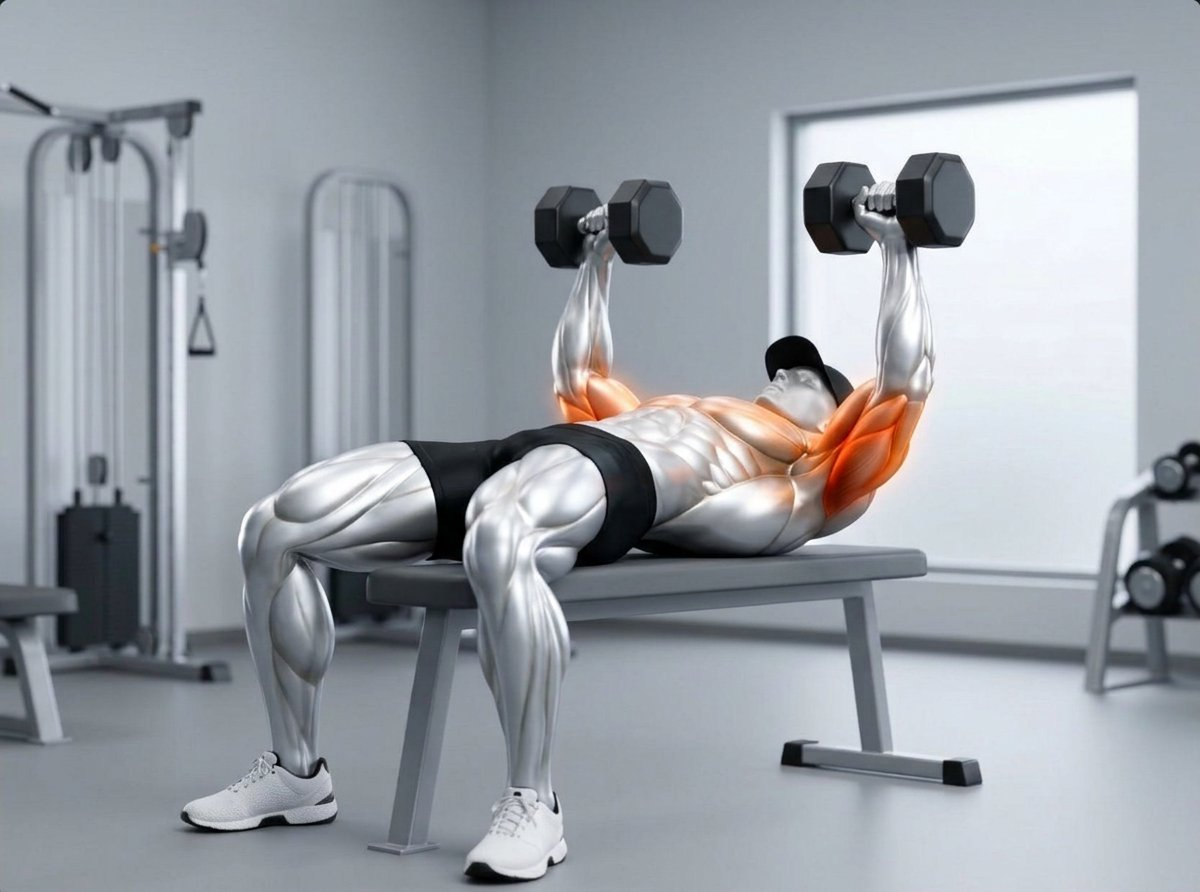
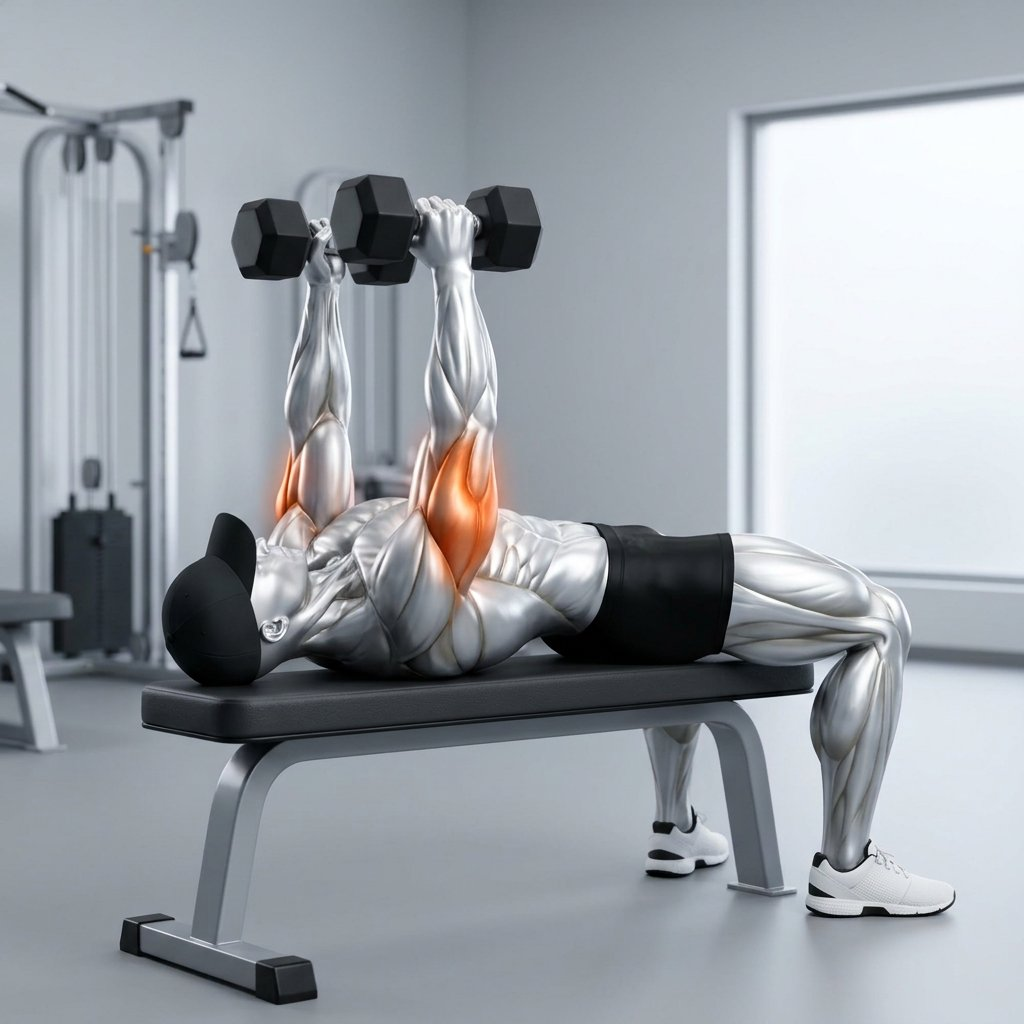
docs: corriger la prise neutre du triceps 03

diff --git a/yanis-fitness-evolution/docs/videos-3d/13-TRICEPS-02-05-PRODUCTION.md b/yanis-fitness-evolution/docs/videos-3d/13-TRICEPS-02-05-PRODUCTION.md
@@ -12,6 +12,11 @@ Révision ciblée du 25/10/2026 : après un essai du logiciel qui transformait l
 d'extension des coudes et une trajectoire vers le front explicites. Les photos
 et les prompts #02, #03 et #04 ne sont pas modifiés.
 
+Seconde révision ciblée, après contrôle visuel par Yanis : la photo et le zoom
+du #03 ont été remplacés pour rendre la **prise neutre** visible, et son prompt
+verrouille désormais les paumes face à face ainsi que l'orientation initiale
+des haltères dans l'axe tête–pieds du banc. Les #02, #04 et #05 sont inchangés.
+
 L'athlète reste celui de
 [`reference-personnage-verrouille.jpg`](./reference-personnage-verrouille.jpg) :
 homme massif chrome argenté, casquette noire mate, short noir, chaussures
@@ -102,12 +107,17 @@ haltères séparés**, bras presque tendus au-dessus de la ligne des épaules.
   l'arrière pour transformer le geste en développé ou en pullover.
 - **Coudes** : seuls les coudes fléchissent et s'étendent, ensemble et de
   façon symétrique. Ils restent à largeur stable, sans s'écarter fortement.
-- **Avant-bras et poignets** : **prise neutre fixe**, paumes face à face,
-  haltères parallèles et poignets droits. Aucune rotation en pronation ou
-  supination pendant le trajet.
-- **Mains et charges** : exactement un haltère par main. En bas, les charges
-  passent **de part et d'autre de la tête**, vers les tempes ou les oreilles,
-  sans toucher le visage, la tête ou le banc.
+- **Avant-bras et poignets** : **prise neutre fixe**, paumes face à face et
+  poignets droits. En position haute, chaque poignée d'haltère est parallèle
+  au **grand axe tête–pieds du banc**, avec un disque vers la tête et l'autre
+  vers les pieds ; les haltères ne sont pas transversaux aux épaules. Cette
+  orientation permet de reconnaître la prise neutre sur la photo. Aucune
+  rotation en pronation ou supination pendant le trajet.
+- **Mains et charges** : exactement un haltère par main. Les paumes restent
+  face à face **à chaque instant**, y compris au bas et à la remontée ; elles
+  ne se tournent jamais vers les pieds ou le sol. En bas, les charges passent
+  **de part et d'autre de la tête**, vers les tempes ou les oreilles, sans
+  toucher le visage, la tête ou le banc et sans se diriger vers la poitrine.
 
 1. **Descente — 3 s** : fléchir seulement les coudes et abaisser les deux
    haltères simultanément le long de la tête jusqu'à une flexion confortable,
@@ -120,7 +130,7 @@ haltères séparés**, bras presque tendus au-dessus de la ligne des épaules.
 ### Prompt Arena Video / PixVerse
 
 ```text
-Animate the EXACT same massive silver-chrome athletic man from the supplied image, preserving his matte black baseball cap, black shorts, white sneakers, grey gym and stable red-orange working-triceps glow. START at the exact HIGH position in the image: lying face-up lengthwise on a HORIZONTAL FLAT BENCH with head, shoulder blades, back and hips supported and feet planted; exactly TWO separate matching black HEX dumbbells, ONE in EACH hand, elbows nearly extended above the shoulder line, upper arms fixed approximately perpendicular to the floor, FIXED NEUTRAL grips with palms facing each other, dumbbells parallel and wrists straight. PHASE 1 (3 seconds): bend ONLY both elbows and lower BOTH dumbbells simultaneously along opposite sides of the head toward temple/ear level, to a comfortable elbow bend near 90 degrees; the dumbbells must pass BESIDE the head without touching the face, cap, head or bench. Keep both upper arms and shoulders stationary. PHASE 2 (1 second): extend ONLY both elbows and raise the same two dumbbells together along the same arcs back to the exact high reference position, without clashing them together. LOCKED throughout: neutral forearm orientation with palms inward, straight wrists, upper-arm position, head and back against the bench, hips, feet and camera. The dumbbells follow the natural elbow arcs with no independent wrist rotation. Static elevated side-front three-quarter camera, identical background and framing, natural continuous movement. Show EXACTLY ONE HIGH-LOW-HIGH repetition lasting about 4 seconds: the FIRST visible movement is DOWNWARD and the FINAL frame returns to the supplied HIGH image, with no added pause and no second rep. Preserve the SAME two separate hex dumbbells in every frame. AVOID: one shared dumbbell, two hands on one weight, barbell or EZ bar, cable, bench press, pullover, alternating arms, neutral grip turning into pronation or supination, upper arms drifting, elbows flaring, dumbbells hitting the head, incline or decline bench, standing posture, morphing equipment, extra fingers or limbs, camera movement, flickering glow, text, logo, watermark.
+Animate the EXACT same massive silver-chrome athletic man from the supplied image, preserving his matte black baseball cap, black shorts, white sneakers, grey gym and stable red-orange working-triceps glow. The action is a LYING TWO-DUMBBELL TRICEPS EXTENSION WITH A FIXED NEUTRAL HAMMER GRIP, driven exclusively by TWO ELBOW HINGES. START at the exact HIGH position in the image: lying face-up lengthwise on a HORIZONTAL FLAT BENCH with head, shoulder blades, back and hips supported and feet planted; exactly TWO separate matching black HEX dumbbells, ONE in EACH hand, elbows nearly extended above the shoulders and upper arms fixed approximately perpendicular to the floor. CRITICAL NEUTRAL-GRIP GEOMETRY: the PALMS FACE EACH OTHER across the body centreline, never the feet or the floor; wrists are straight; at the start EACH dumbbell handle is PARALLEL TO THE LONG HEAD-TO-FOOT AXIS OF THE BENCH, with ONE plate toward the HEAD and the OTHER toward the FEET. The two dumbbells are parallel to one another, NOT transverse across the shoulder line. THIS NEUTRAL GRIP IS AN INVARIANT FOR EVERY FRAME, not merely a starting detail: the palms keep facing each other at the bottom and throughout the return, with NO pronation, NO supination and NO axial twisting of either wrist or dumbbell. PHASE 1 (3 seconds): bend ONLY both elbows and lower BOTH dumbbells simultaneously along opposite sides of the head toward temple/ear level, to a comfortable elbow bend near 90 degrees. The weights travel BESIDE THE HEAD, NEVER toward the chest, sternum or stomach, without touching the face, cap, head or bench. Keep both upper arms and shoulders stationary. PHASE 2 (1 second): extend ONLY both elbows and LIFT the same two dumbbells together along the same arcs back to the exact high neutral-grip reference position, without clashing them together. LOCKED throughout: palms facing each other, neutral wrists, hand positions on the handles, upper-arm positions, head and back against the bench, hips, feet and camera. Both dumbbells preserve the same neutral orientation relative to their hands and remain parallel to each other; they follow the natural elbow arcs with no independent rotation. Static elevated side three-quarter camera, identical background and framing. Show EXACTLY ONE sequence lasting about 4 seconds: HIGH NEUTRAL GRIP -> BESIDE THE EARS WITH THE SAME NEUTRAL GRIP -> HIGH NEUTRAL GRIP. The descent lasts 3 seconds, the return lasts 1 second, and there is no added pause or second repetition. AVOID: palms turning toward the feet or floor, pronated or supinated grip, dumbbell handles turning across the shoulders at the start, any weight path toward the chest, one shared dumbbell, barbell or EZ bar, cable, alternating arms, upper-arm drift, elbows dropping beside the ribs, dumbbells hitting the head, incline bench, standing posture, morphing equipment, extra fingers or limbs, camera movement, flickering glow, text, logo, watermark.
 ```
 
 ---
@@ -211,11 +221,13 @@ Animate the EXACT same massive silver-chrome athletic man from the supplied imag
 2. Contrôler le départ, le bas, la remontée et la dernière image de chaque MP4,
    ainsi que les mains en zoom.
 3. Vérifier spécifiquement : buste droit et 90° des dips #02 ; deux haltères et
-   prise neutre #03 ; poulie **basse**, corde connectée et mains derrière la
-   tête #04 ; barre **EZ**, coudes fixes au-dessus des épaules, trajet vers le
-   front et cycle de 5 s #05. Pour #05, **rejeter toute source qui amène la
-   barre vers la poitrine ou qui laisse retomber les coudes le long du buste**,
-   même si le reste du rendu est propre.
+   **paumes face à face du début à la fin** #03 ; poulie **basse**, corde
+   connectée et mains derrière la tête #04 ; barre **EZ**, coudes fixes
+   au-dessus des épaules, trajet vers le front et cycle de 5 s #05. Pour #03,
+   **rejeter toute pronation, supination ou trajectoire vers la poitrine**. Pour
+   #05, **rejeter toute source qui amène la barre vers la poitrine ou qui
+   laisse retomber les coudes le long du buste**, même si le reste du rendu
+   est propre.
 4. Refuser ou documenter toute dérive de matériel, d'anatomie, de trajectoire,
    de tempo ou de caméra avant intégration. Ne pas convertir automatiquement
    une correspondance de catalogue en statut `validated`.
